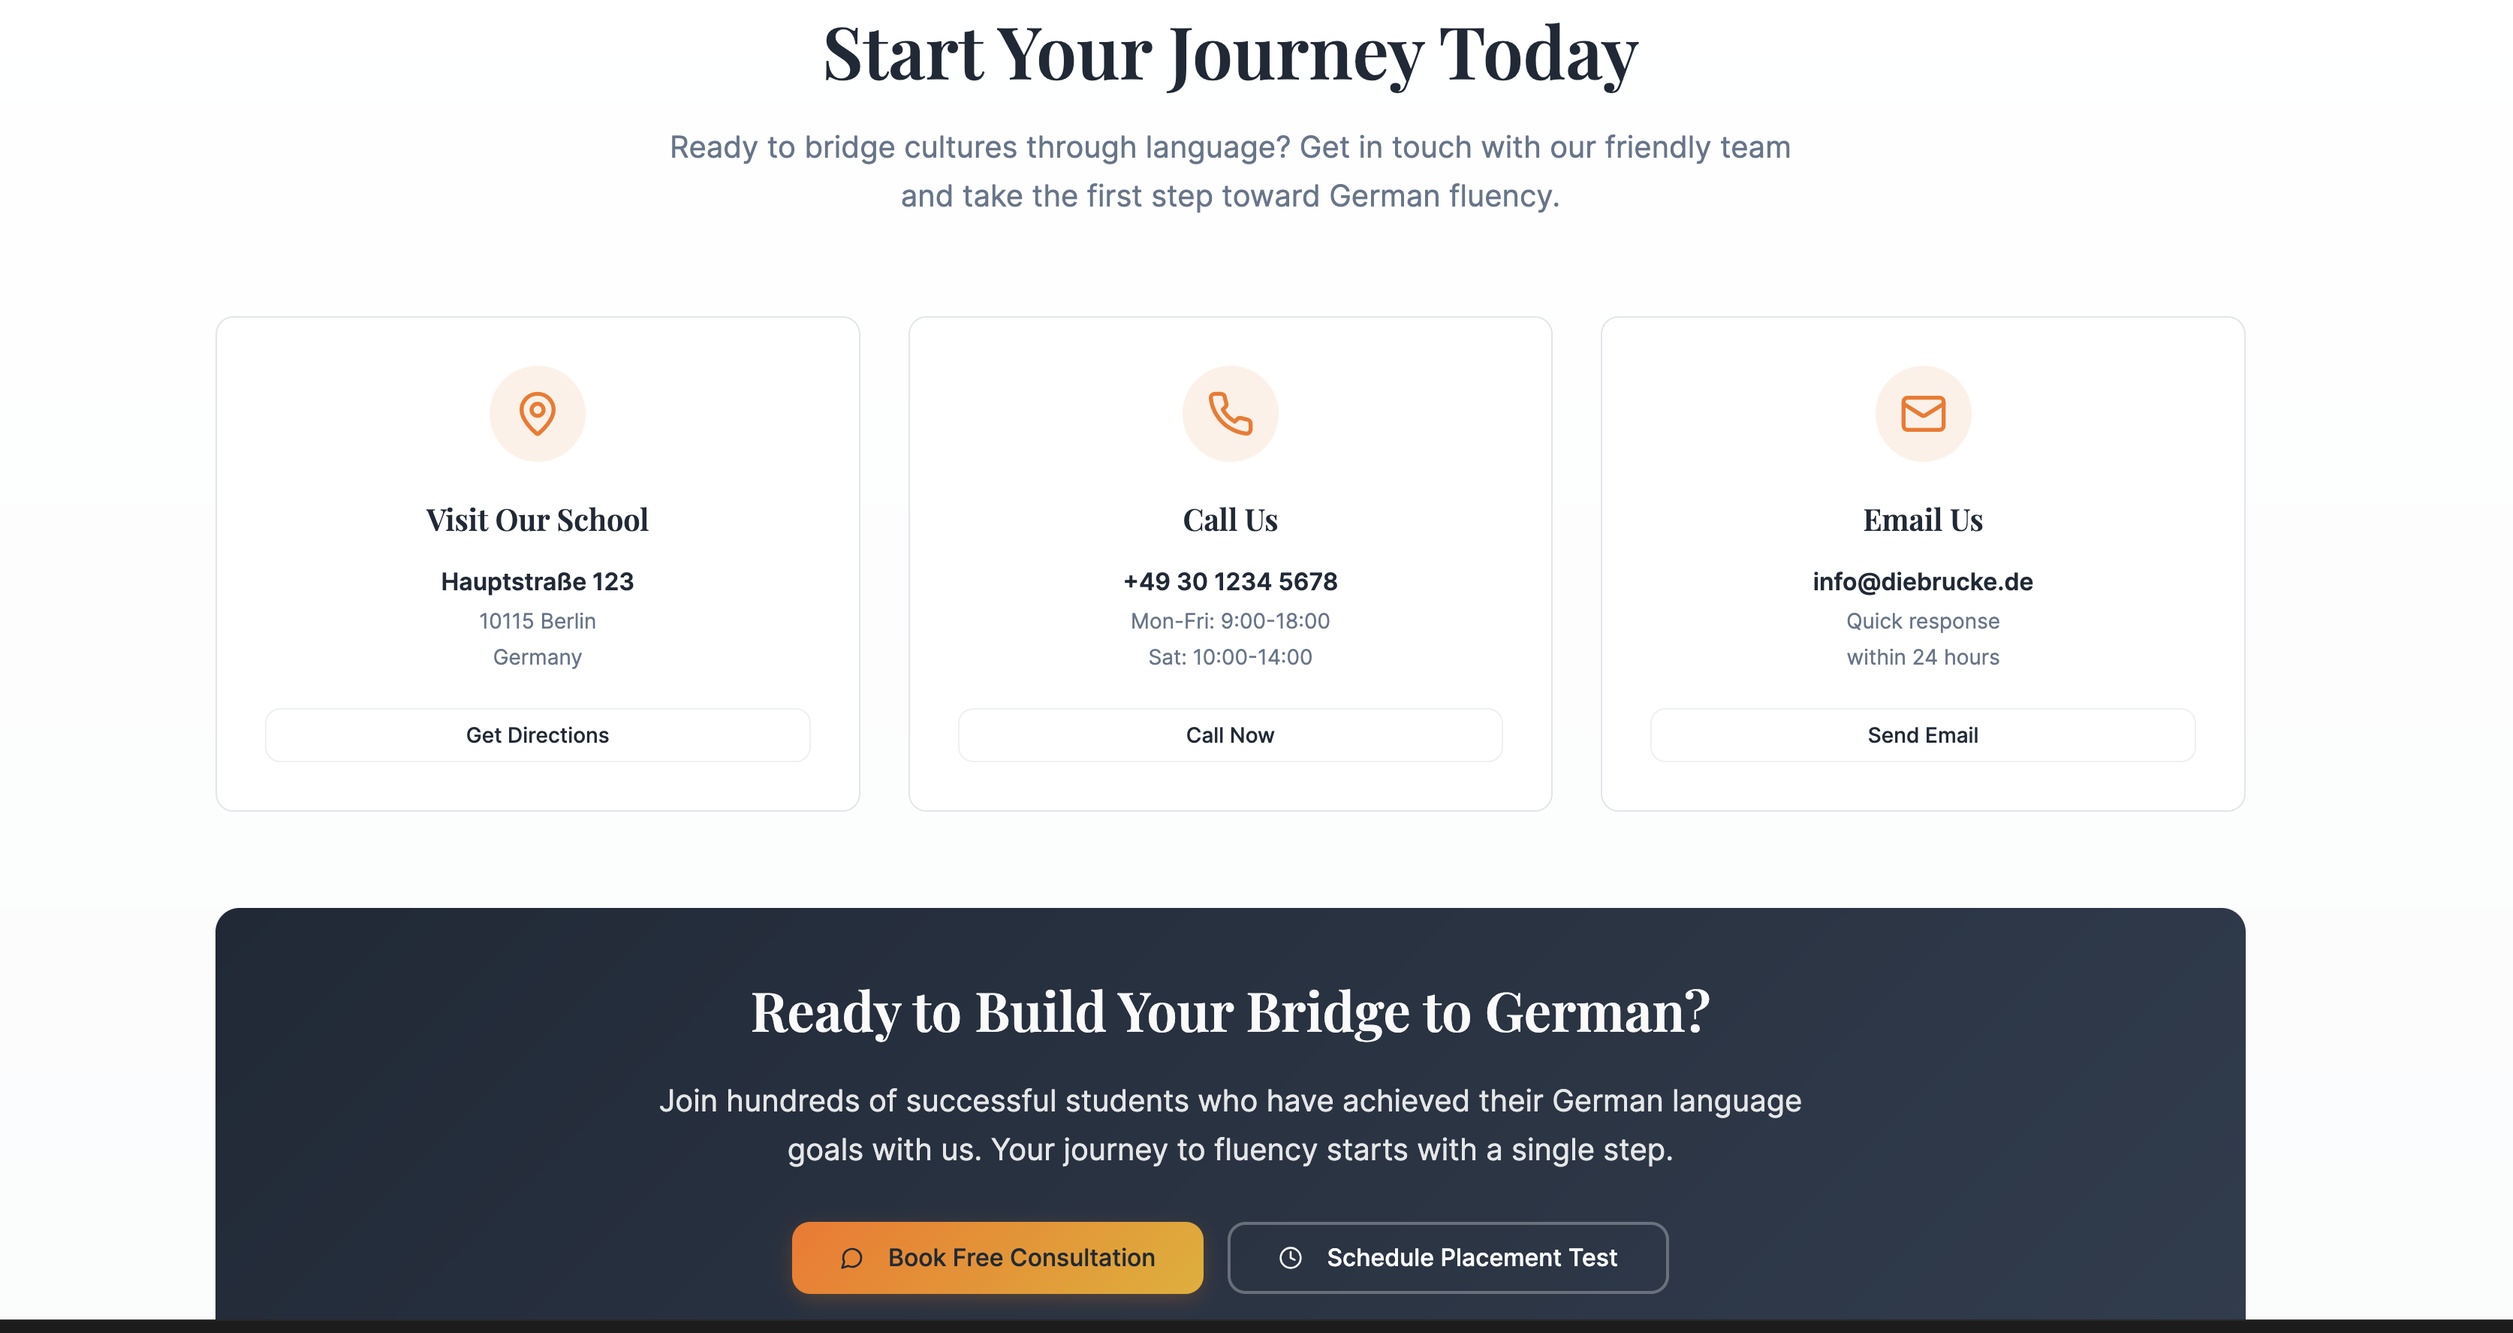
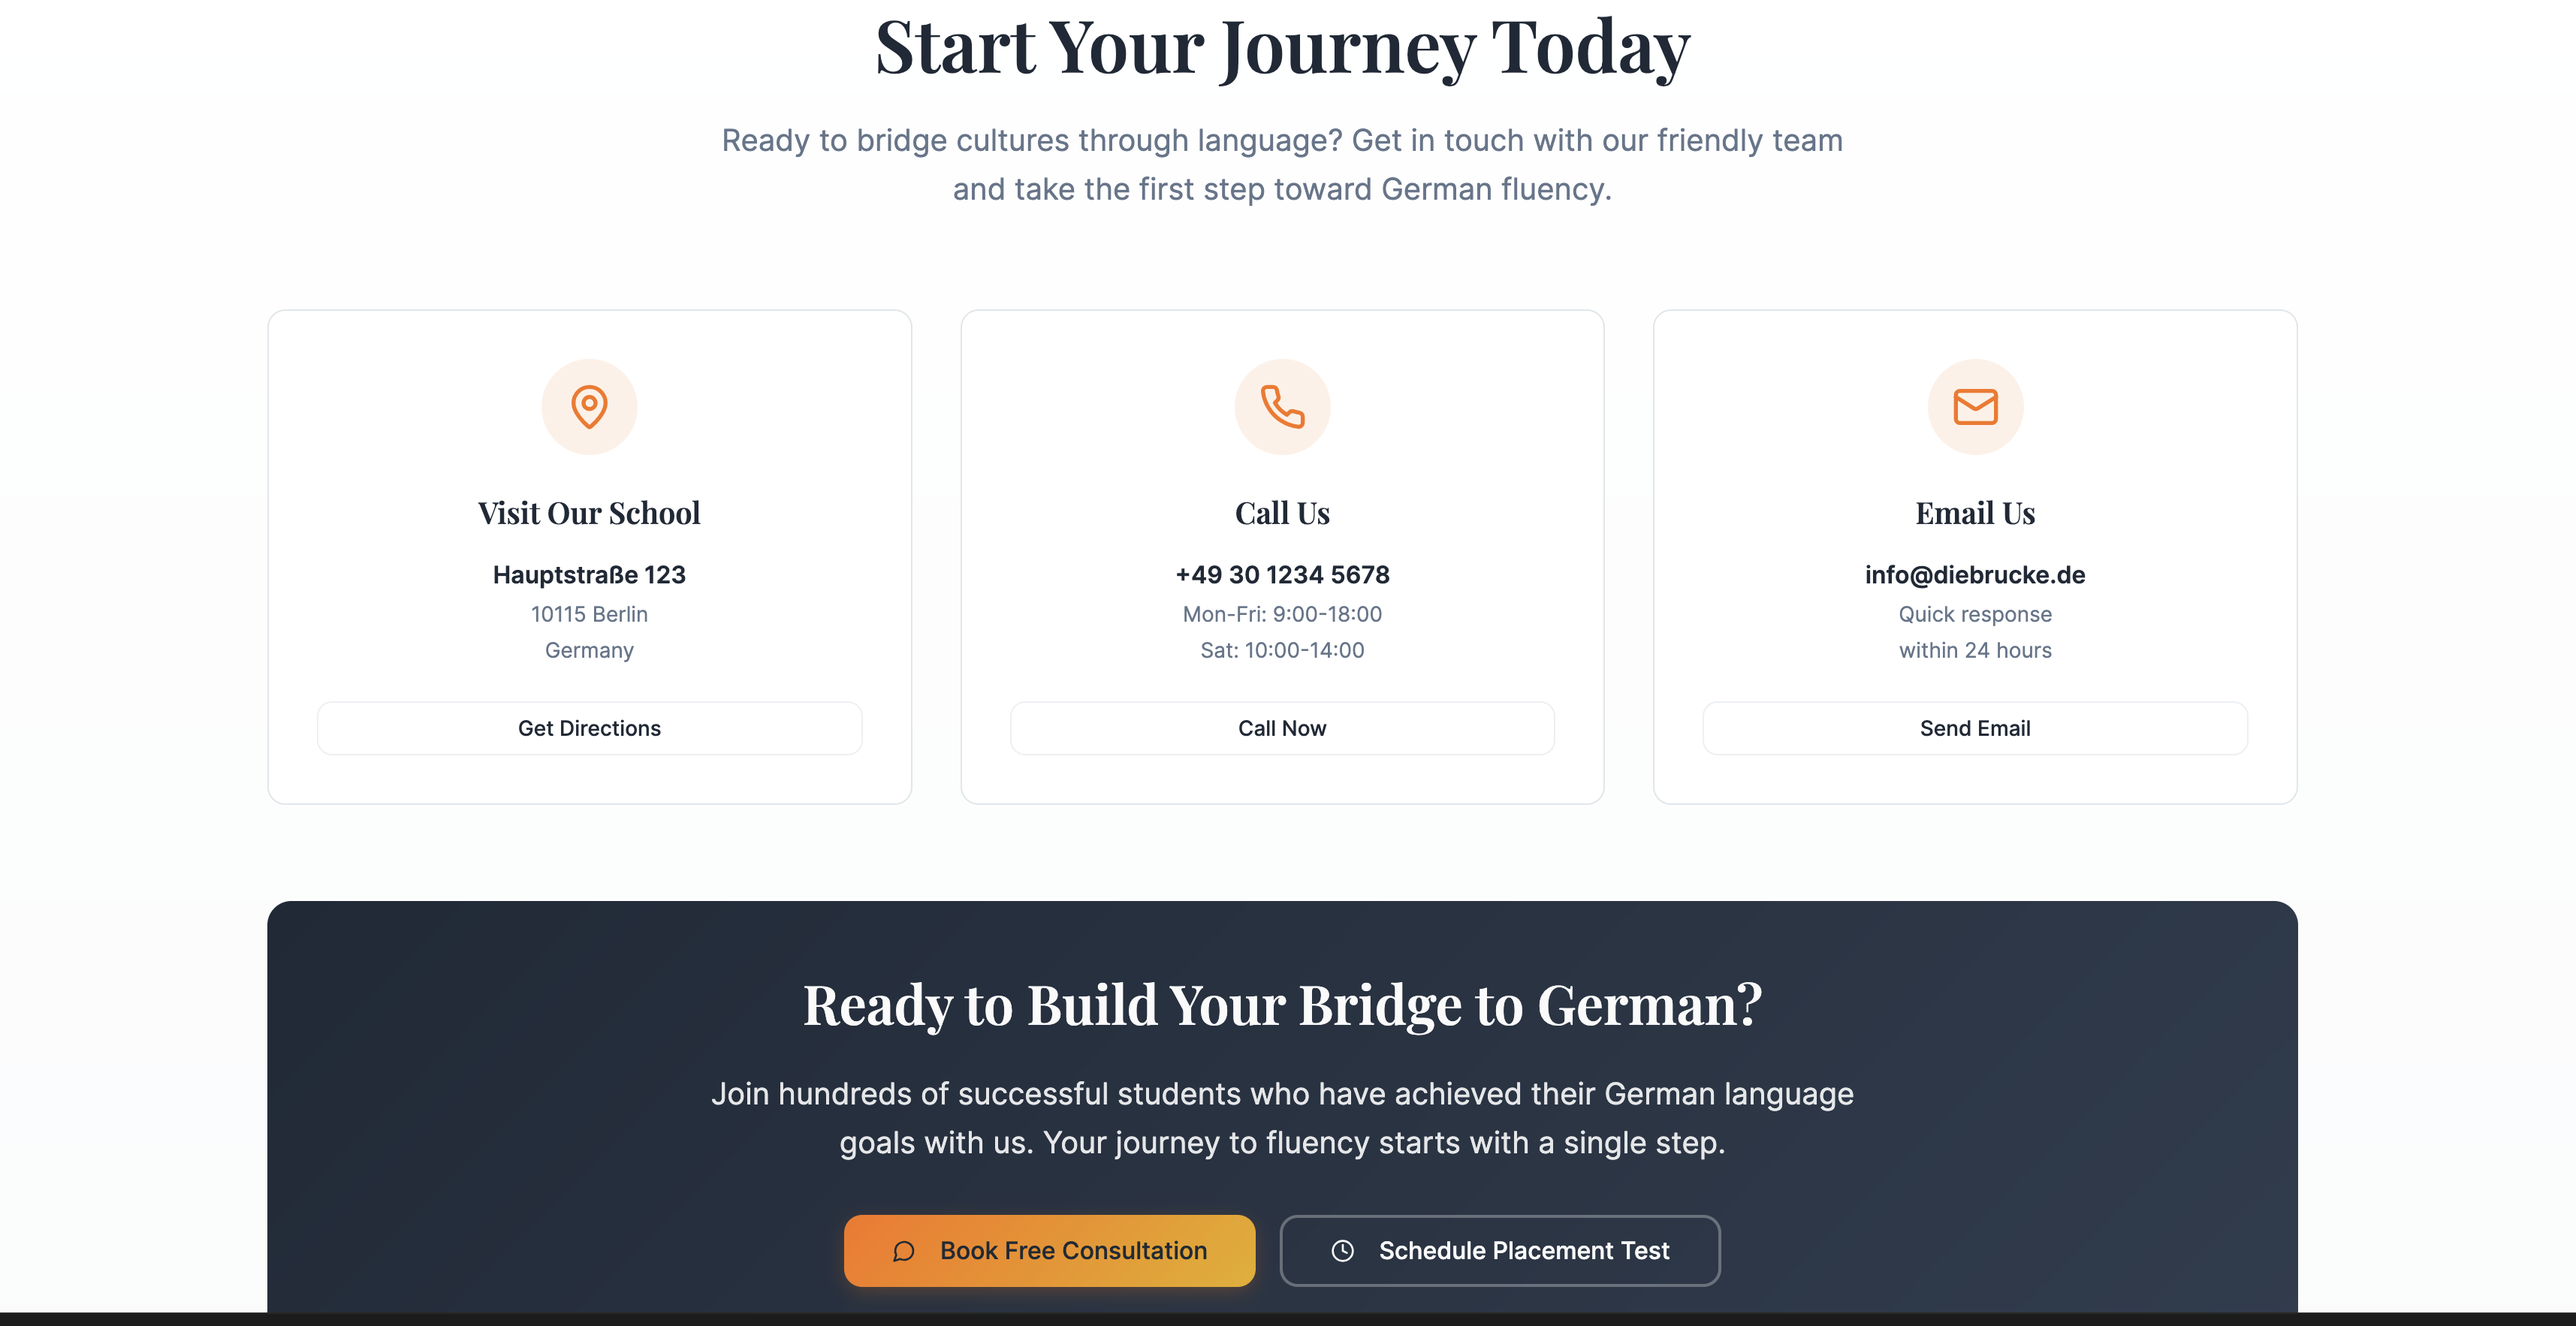
Added ct section

diff --git a/contact.html b/contact.html
@@ -24,11 +24,73 @@
                 <a href="./Index.html">Home</a>
                 <a href="./About.html">About</a>
                 <a href="./course.html">Courses</a>
-                <a href="Contact.html">Contact</a>
+                <a href="./contact.html">Contact</a>
             </div>
             <button class="enroll-btn" id="enrollBtn">Enroll Now</button>
         </div>
     </nav>
+
+    <!-- ---------------- HEADLINE ---------------- -->
+<div class="section-headline">
+    <h1>Start Your Journey Today</h1>
+    <p>Ready to bridge cultures through language? Get in touch with our friendly team<br>
+       and take the first step toward German fluency.</p>
+</div>
+
+<!-- ---------------- CONTACT CARDS ---------------- -->
+<div class="contact-wrapper">
+
+    <!-- Visit Us -->
+    <div class="contact-card">
+        <img class="icon" src="https://cdn-icons-png.flaticon.com/512/684/684908.png" alt="Location Icon">
+        <h3>Visit Our School</h3>
+        <p><strong>Hauptstraße 123</strong></p>
+        <p>10115 Berlin</p>
+        <p>Germany</p>
+        <button onclick="alert('Opening map...')">Get Directions</button>
+    </div>
+
+    <!-- Call Us -->
+    <div class="contact-card">
+        <img class="icon" src="https://cdn-icons-png.flaticon.com/512/724/724664.png" alt="Phone Icon">
+        <h3>Call Us</h3>
+        <p><strong>+49 30 1234 5678</strong></p>
+        <p class="small">Mon–Fri: 9:00–18:00</p>
+        <p class="small">Sat: 10:00–14:00</p>
+        <button onclick="window.location.href='tel:+493012345678'">Call Now</button>
+    </div>
+
+    <!-- Email Us -->
+    <div class="contact-card">
+        <img class="icon" src="https://cdn-icons-png.flaticon.com/512/561/561127.png" alt="Email Icon">
+        <h3>Email Us</h3>
+        <p><strong>info@diebrucke.de</strong></p>
+        <p class="small">Quick response</p>
+        <p class="small">within 24 hours</p>
+        <button onclick="window.location.href='mailto:info@diebrucke.de'">Send Email</button>
+    </div>
+
+</div>
+
+<!-- ---------------- CTA SECTION ---------------- -->
+<div class="cta-section">
+    <h2>Ready to Build Your Bridge to German?</h2>
+    <p>Join hundreds of successful students who have achieved their German language<br>
+       goals with us. Your journey to fluency starts with a single step.</p>
+
+    <div class="cta-buttons">
+        <button class="btn primary">Book Free Consultation</button>
+        <button class="btn secondary">Schedule Placement Test</button>
+    </div>
+</div>
+
+<script>
+// Add your JavaScript logic here if needed
+console.log("Landing page loaded");
+</script>
+
+
+
     
 </body>
 </html>

diff --git a/contact.css b/contact.css
@@ -98,3 +98,86 @@ nav
     background: linear-gradient(90deg, #00b4d8 0%, #0077b6 100%);
     transform: translateY(-2px) scale(1.04);
 }
+
+
+
+/* ------------------ CONTACT SECTION ------------------ */
+.section-headline 
+{
+    text-align: center;
+    margin-top: 40px;
+}
+
+.section-headline h1 {
+    font-size: 42px;
+    font-weight: 700;
+}
+
+.section-headline p {
+    font-size: 16px;
+    margin-top: 8px;
+    color: #555;
+}
+
+.contact-wrapper 
+{
+    display: flex;
+    justify-content: center;
+    gap: 25px;
+    margin-top: 45px;
+    padding: 0 20px;
+    flex-wrap: wrap;
+}
+
+.contact-card 
+{
+    width: 300px;
+    background: #fff;
+    border-radius: 14px;
+    padding: 35px 25px;
+    text-align: center;
+    box-shadow: 0 4px 16px rgba(0,0,0,0.06);
+}
+
+.contact-card img.icon 
+{
+    width: 55px;
+    height: 55px;
+    margin-bottom: 20px;
+}
+
+.contact-card h3 
+{
+    font-size: 20px;
+    margin-bottom: 10px;
+}
+
+.contact-card p 
+{
+    margin: 4px 0;
+    color: #555;
+}
+
+.contact-card .small 
+{
+    font-size: 14px;
+    color: #777;
+}
+
+.contact-card button 
+{
+    margin-top: 22px;
+    padding: 12px 22px;
+    width: 100%;
+    border-radius: 10px;
+    border: 1px solid #ddd;
+    background: #fafafa;
+    cursor: pointer;
+    transition: 0.2s;
+}
+
+.contact-card button:hover 
+{
+    background: #eee;
+}
+

diff --git a/course.html b/course.html
@@ -28,7 +28,7 @@
                 <a href="./Index.html">Home</a>
                 <a href="./About.html">About</a>
                 <a href="./course.html">Courses</a>
-                <a href="Contact.html">Contact</a>
+                <a href="/contact.html">Contact</a>
             </div>
             <button class="enroll-btn" id="enrollBtn">Enroll Now</button>
         </div>
